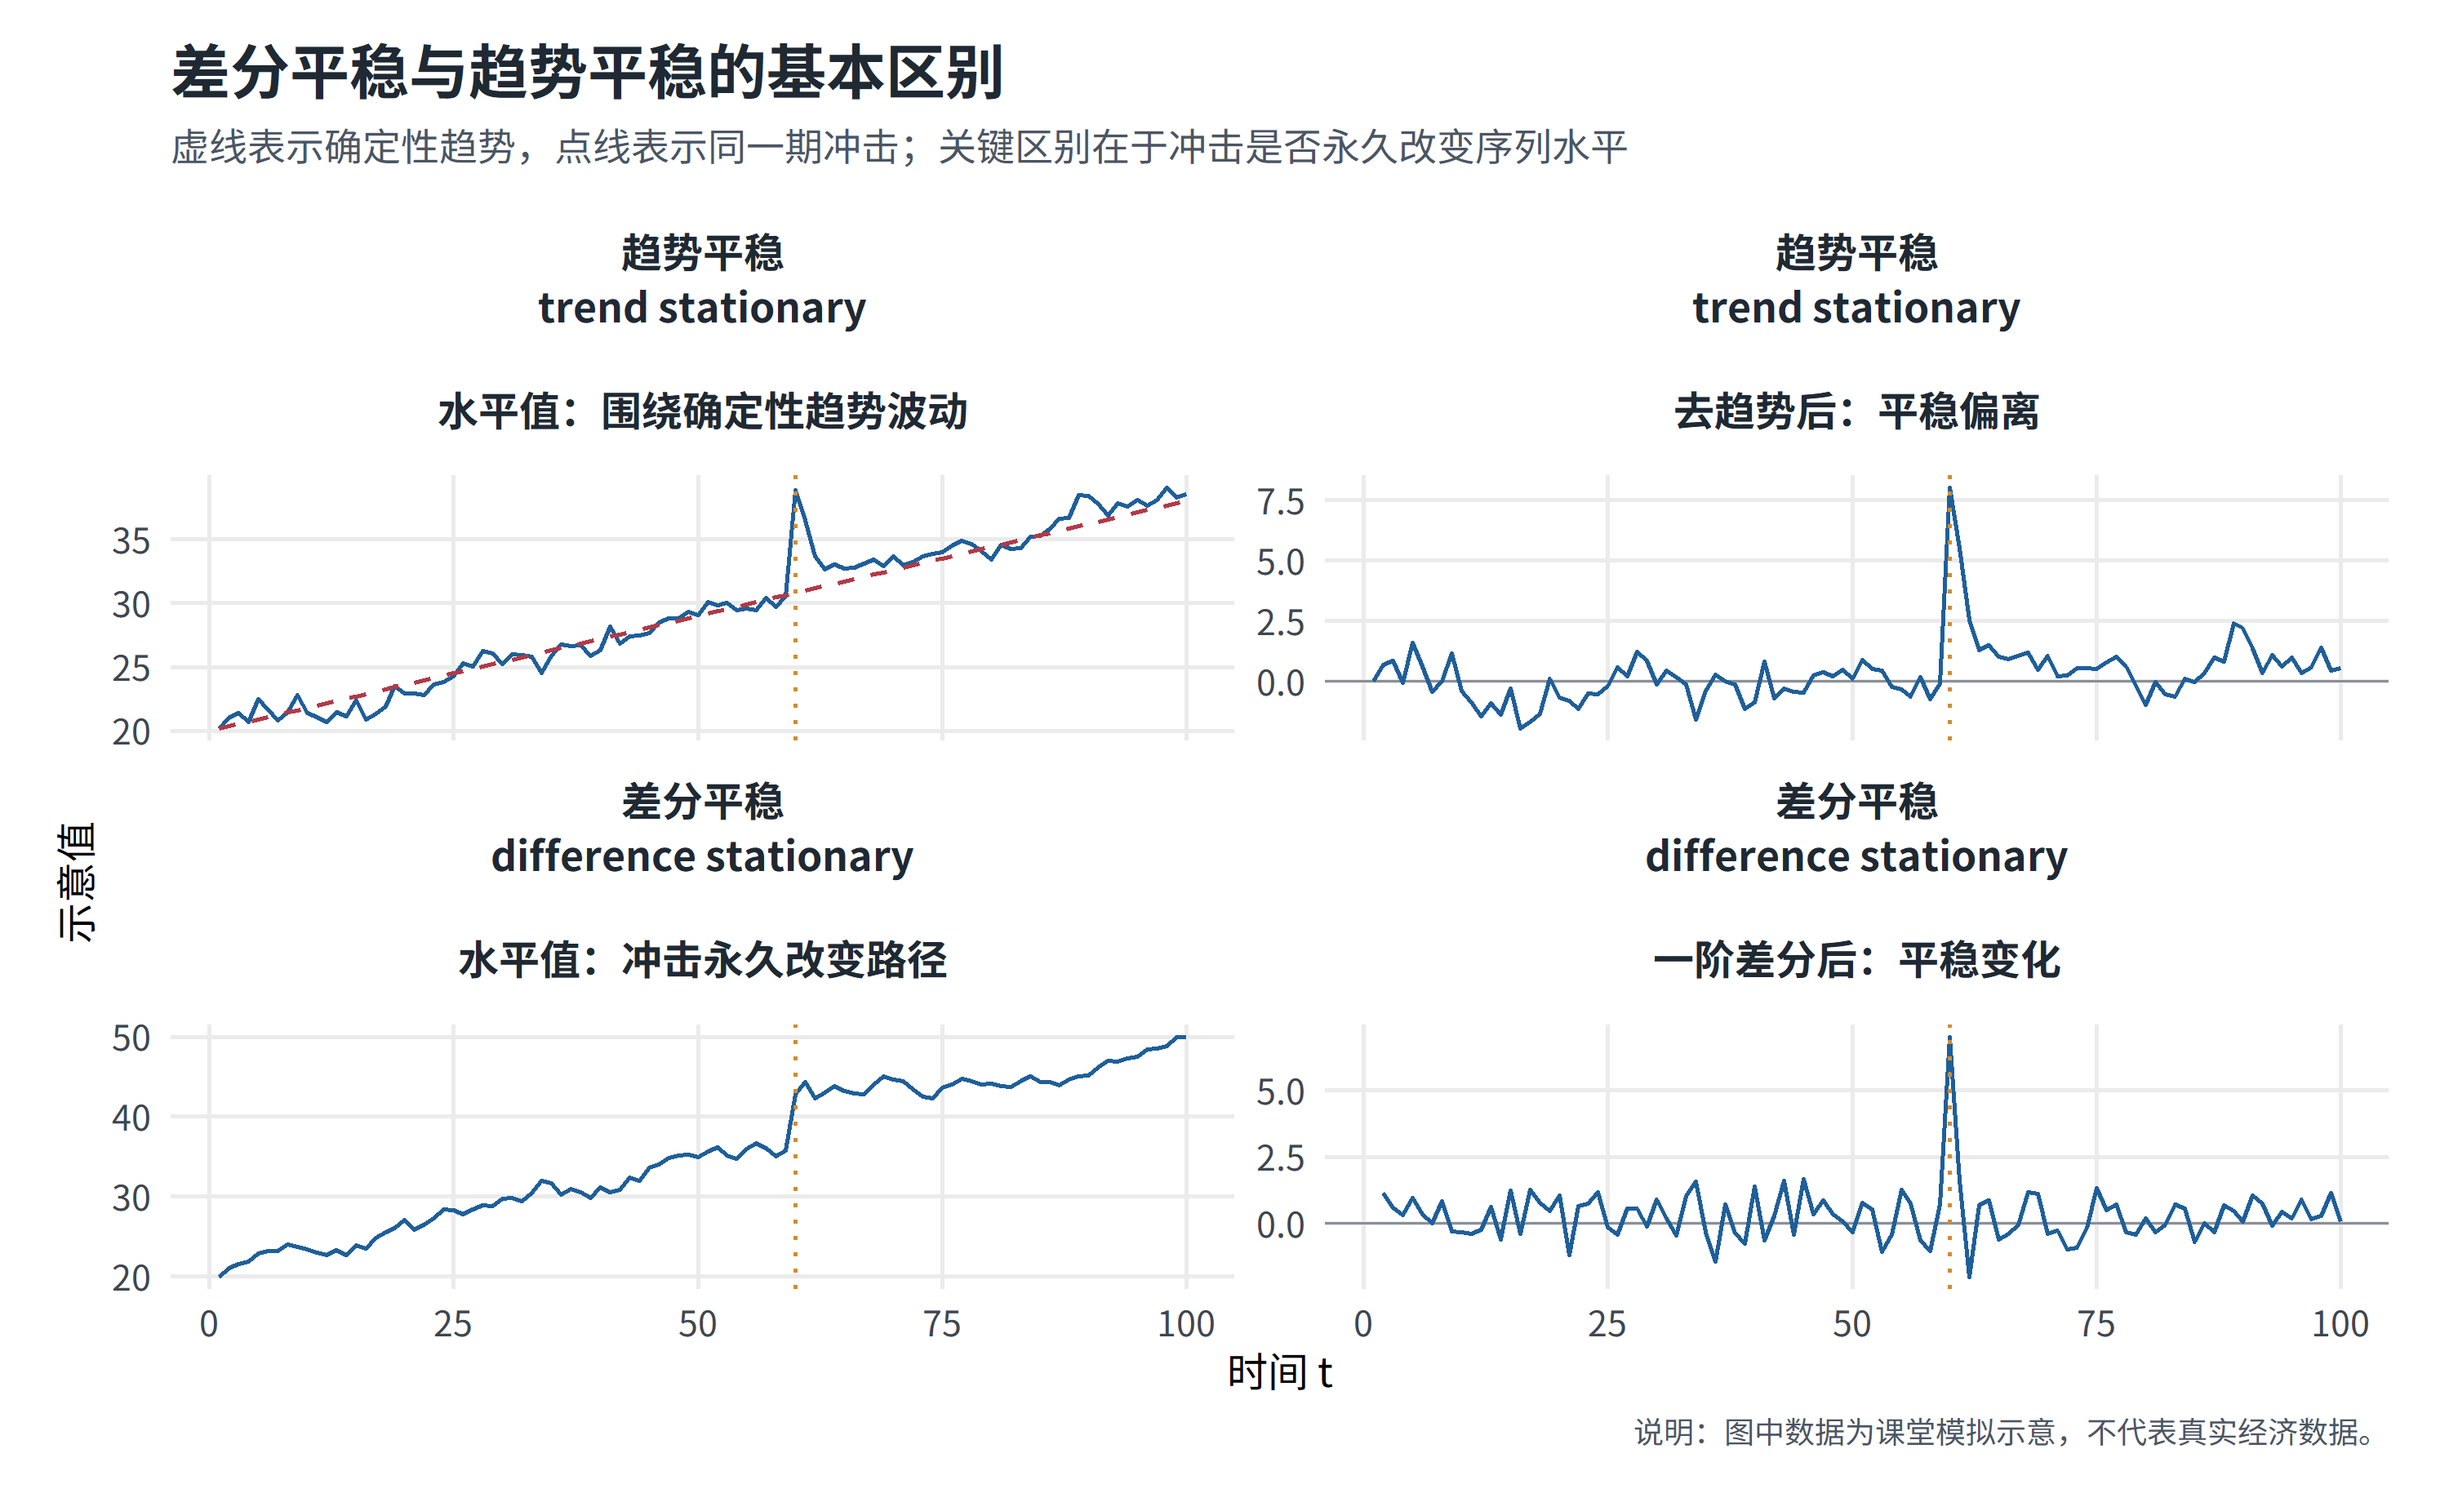
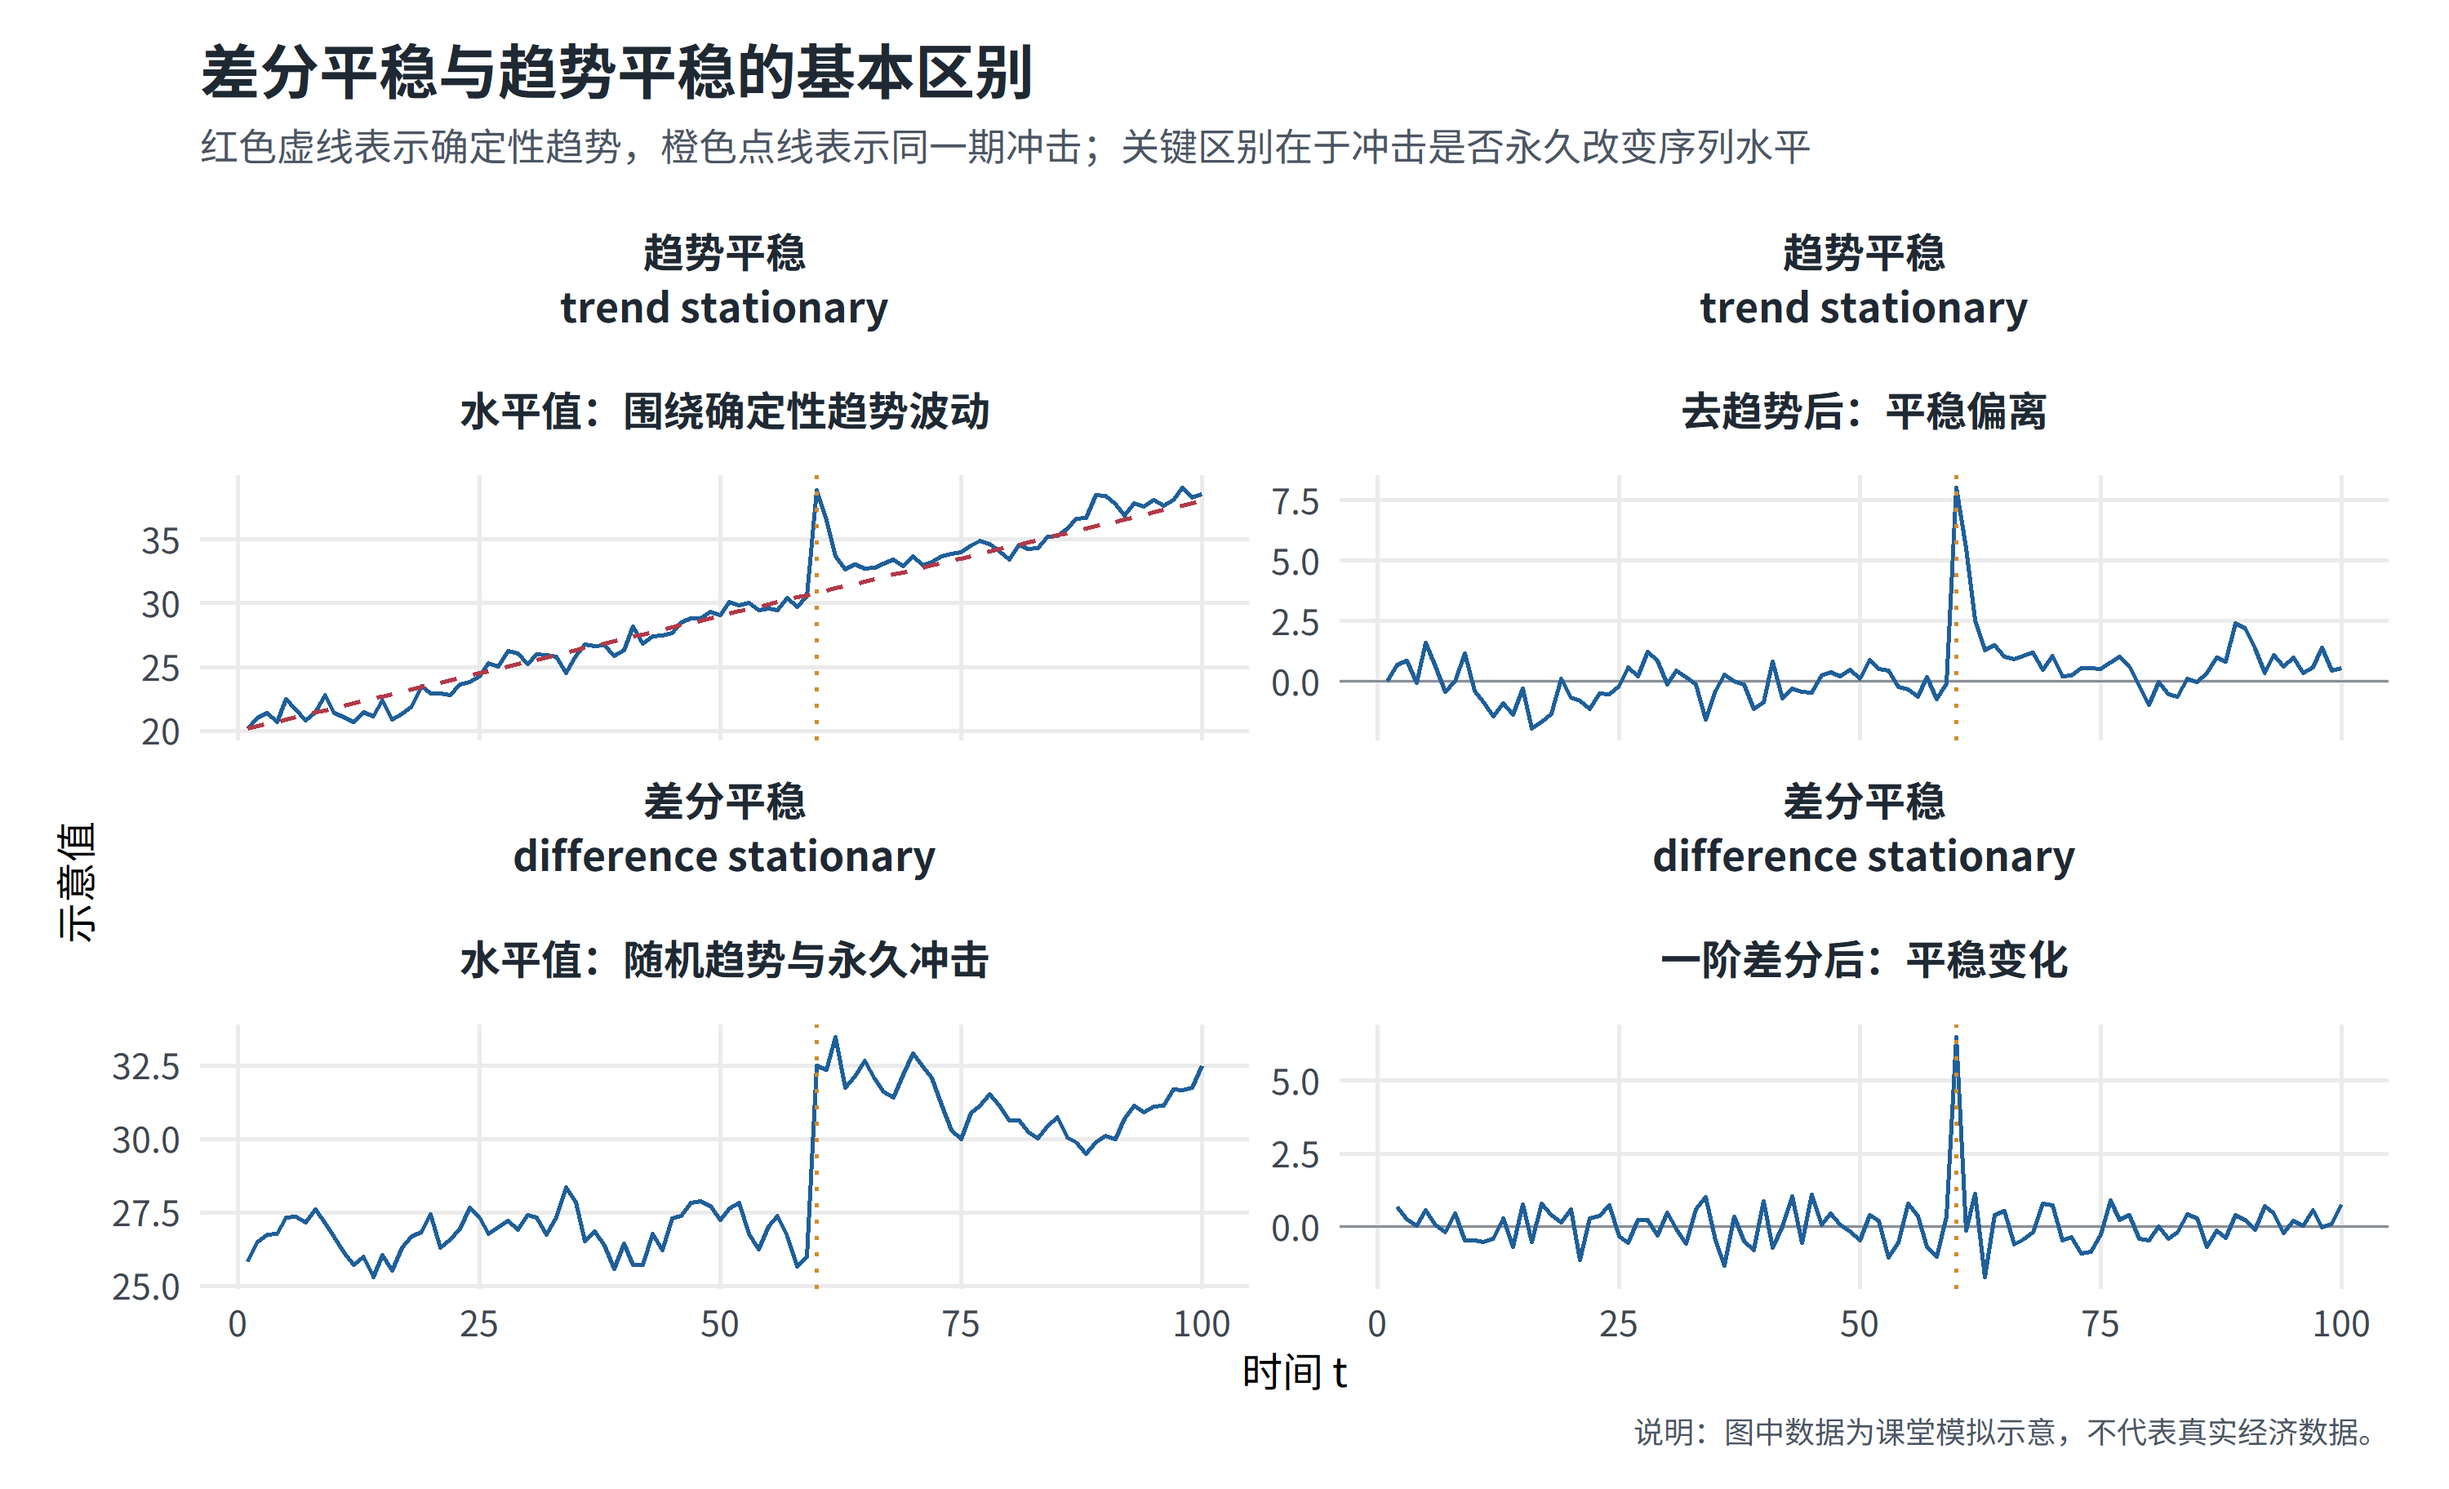
替换差分平稳示意图路径

diff --git a/第4章_非平稳时间序列模型/第4章_非平稳时间序列模型_教材式中文讲义.md b/第4章_非平稳时间序列模型/第4章_非平稳时间序列模型_教材式中文讲义.md
@@ -179,9 +179,9 @@ $$
 
 非平稳序列并不都一样。经济时间序列中最重要的区分，是差分平稳（difference stationary）和趋势平稳（trend stationary）。
 
-这一区分可以先从图形上理解。下图构造了两个具有上升趋势的模拟序列：上方为趋势平稳过程，下方为差分平稳过程。左侧画的是原序列水平值，右侧画的是相应处理后的序列。趋势平稳序列去掉确定性趋势后回到平稳波动；差分平稳序列本身具有随机趋势，通常需要做一阶差分后才呈现平稳变化。
+这一区分可以先从图形上理解。下图构造了两类非平稳过程：上方为具有确定性趋势的趋势平稳过程，下方为不含确定性趋势、但含随机趋势的差分平稳过程。左侧画的是原序列水平值，右侧画的是相应处理后的序列。趋势平稳序列去掉确定性趋势后回到平稳波动；差分平稳序列本身没有固定长期均值，一次冲击会永久进入水平值，通常需要做一阶差分后才呈现平稳变化。
 
-![差分平稳与趋势平稳示意图](图片/差分平稳与趋势平稳示意图.png?v=216b2c1)
+![差分平稳与趋势平稳示意图](图片/差分平稳与趋势平稳示意图.png?v=diff-v2)
 
 ### 4.4.1 差分平稳过程
 

diff --git a/课程网站/docs/第4章_非平稳时间序列模型/index.md b/课程网站/docs/第4章_非平稳时间序列模型/index.md
@@ -179,9 +179,9 @@ $$
 
 非平稳序列并不都一样。经济时间序列中最重要的区分，是差分平稳（difference stationary）和趋势平稳（trend stationary）。
 
-这一区分可以先从图形上理解。下图构造了两个具有上升趋势的模拟序列：上方为趋势平稳过程，下方为差分平稳过程。左侧画的是原序列水平值，右侧画的是相应处理后的序列。趋势平稳序列去掉确定性趋势后回到平稳波动；差分平稳序列本身具有随机趋势，通常需要做一阶差分后才呈现平稳变化。
+这一区分可以先从图形上理解。下图构造了两类非平稳过程：上方为具有确定性趋势的趋势平稳过程，下方为不含确定性趋势、但含随机趋势的差分平稳过程。左侧画的是原序列水平值，右侧画的是相应处理后的序列。趋势平稳序列去掉确定性趋势后回到平稳波动；差分平稳序列本身没有固定长期均值，一次冲击会永久进入水平值，通常需要做一阶差分后才呈现平稳变化。
 
-![差分平稳与趋势平稳示意图](图片/差分平稳与趋势平稳示意图.png?v=216b2c1)
+![差分平稳与趋势平稳示意图](图片/差分平稳与趋势平稳示意图.png?v=diff-v2)
 
 ### 4.4.1 差分平稳过程
 
